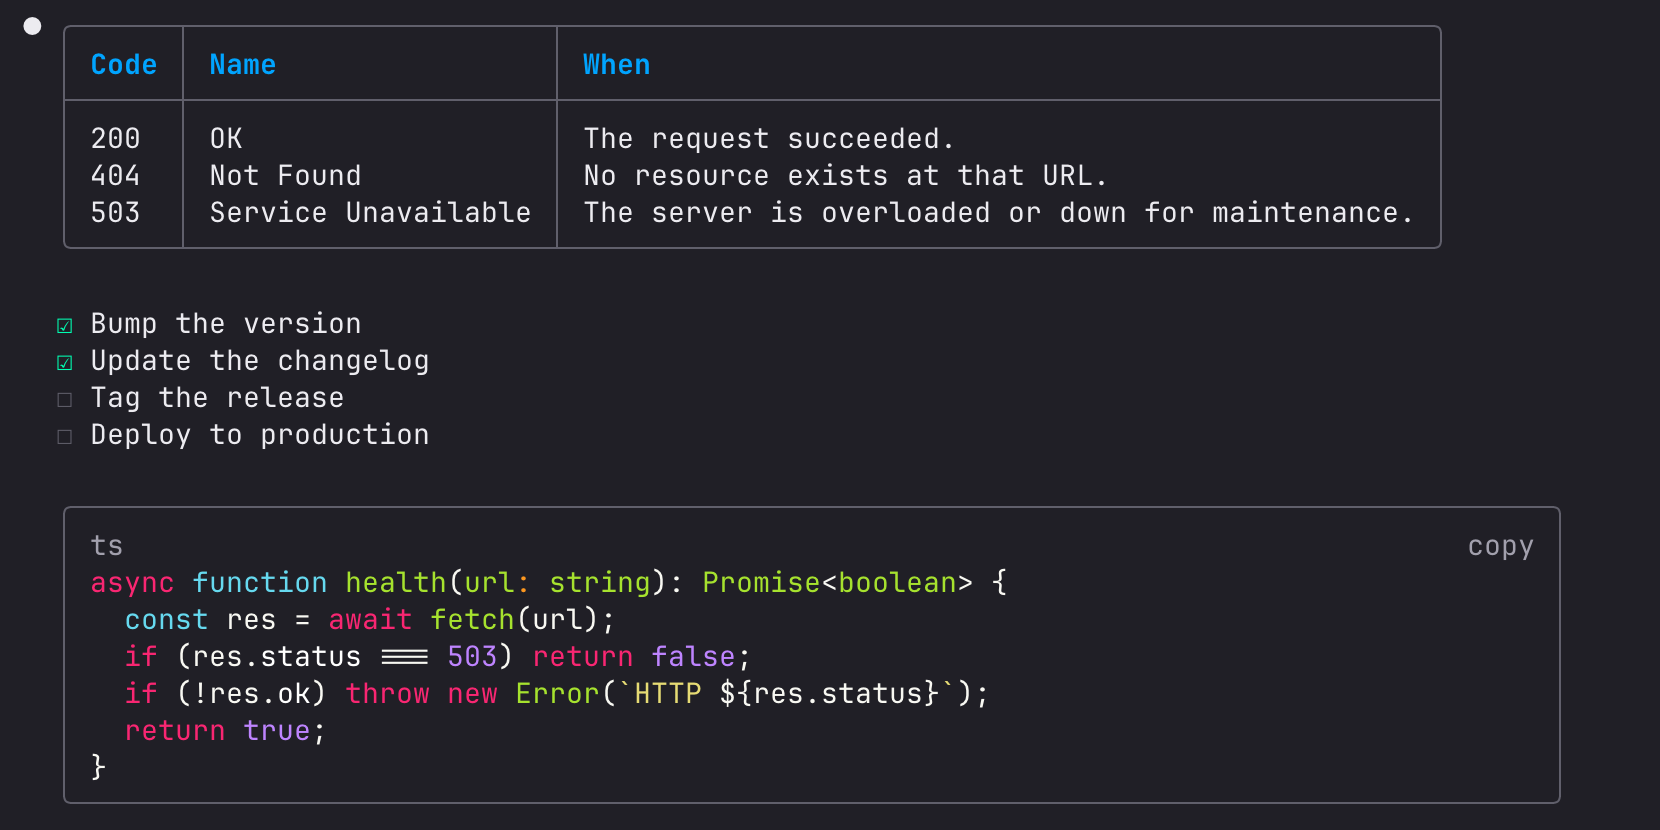
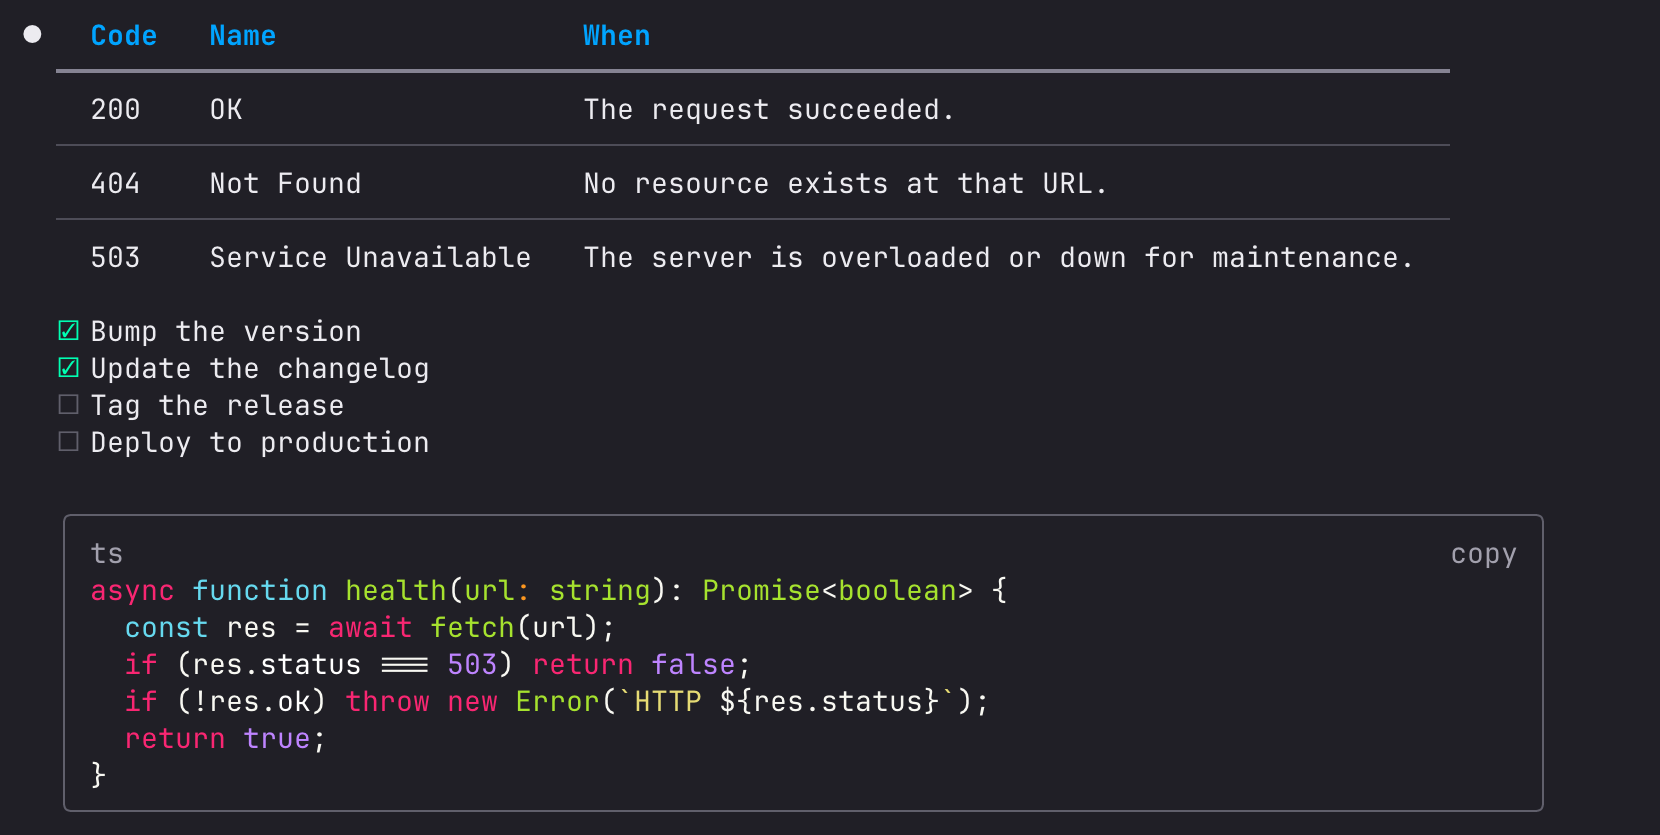
Re-take the demo and the blocks screenshot with ruled tables
The demo's clip is now a small Game of Life in the theme's colors, and its
last step asks for a misspelled diagram type: beautiful-mermaid draws any
broken body, and rejects only a bad header.

Claude-Session: https://claude.ai/code/session_01EwLoXV5GZ6Fya1dP94Kx4p

diff --git a/README.md b/README.md
@@ -25,7 +25,7 @@ The five callouts:
 
 A table, a task list, and a code fence as a card with its copy button:
 
-<img src="docs/markdown-blocks.png" width="830" alt="A framed table, a task list with two items ticked, and a TypeScript snippet in a card with a copy button">
+<img src="docs/markdown-blocks.png" width="830" alt="A table ruled under its header and between its rows, a task list with two items ticked, and a TypeScript snippet in a card with a copy button">
 
 ## Requirements
 
